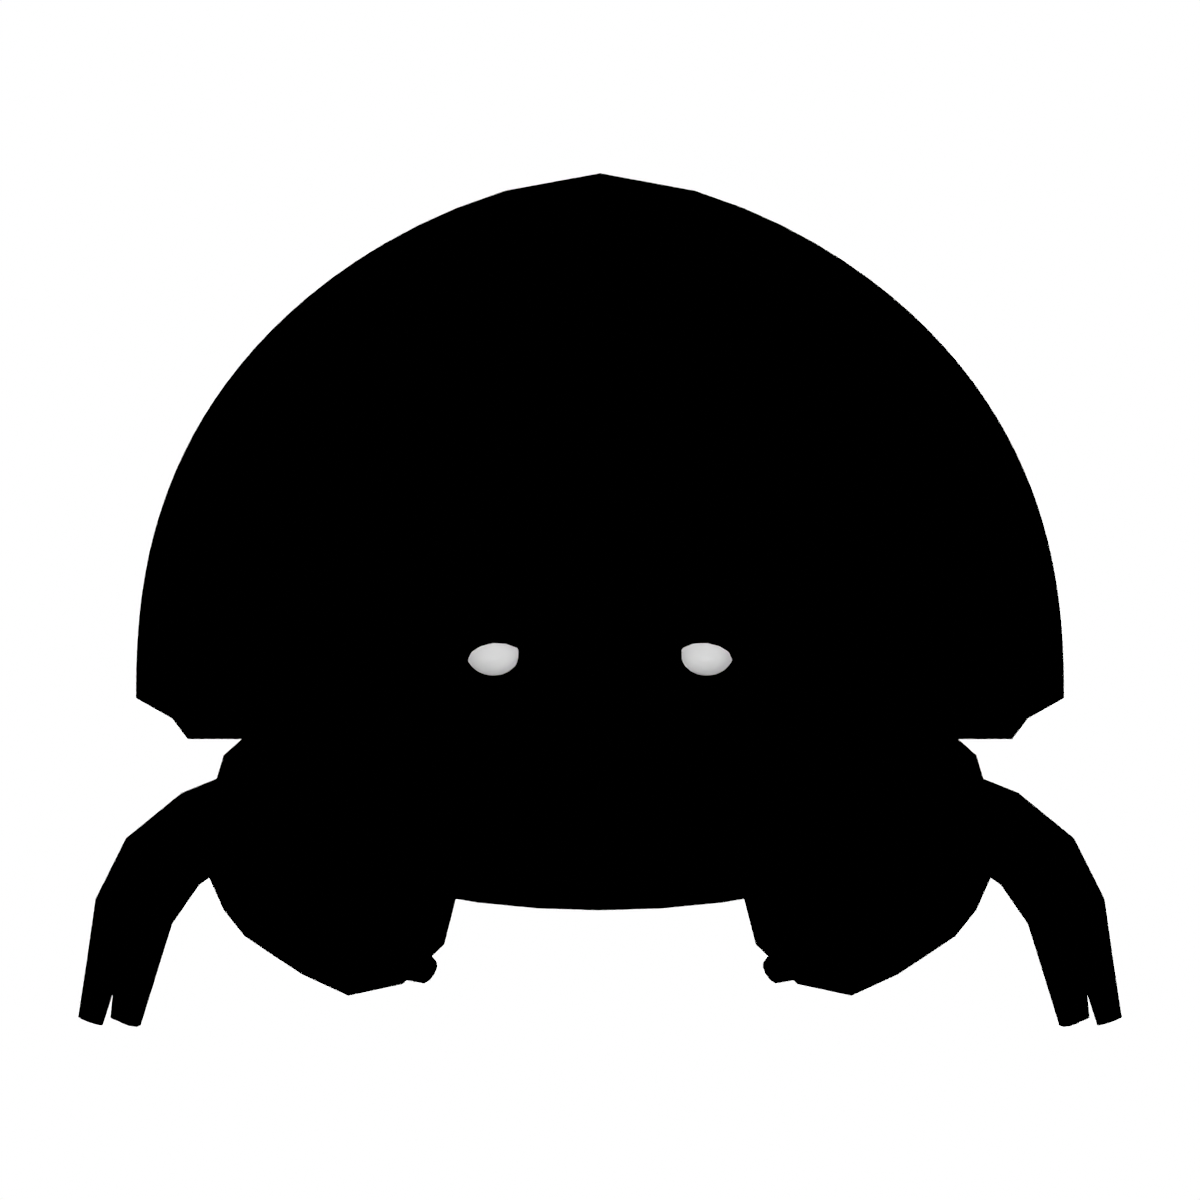
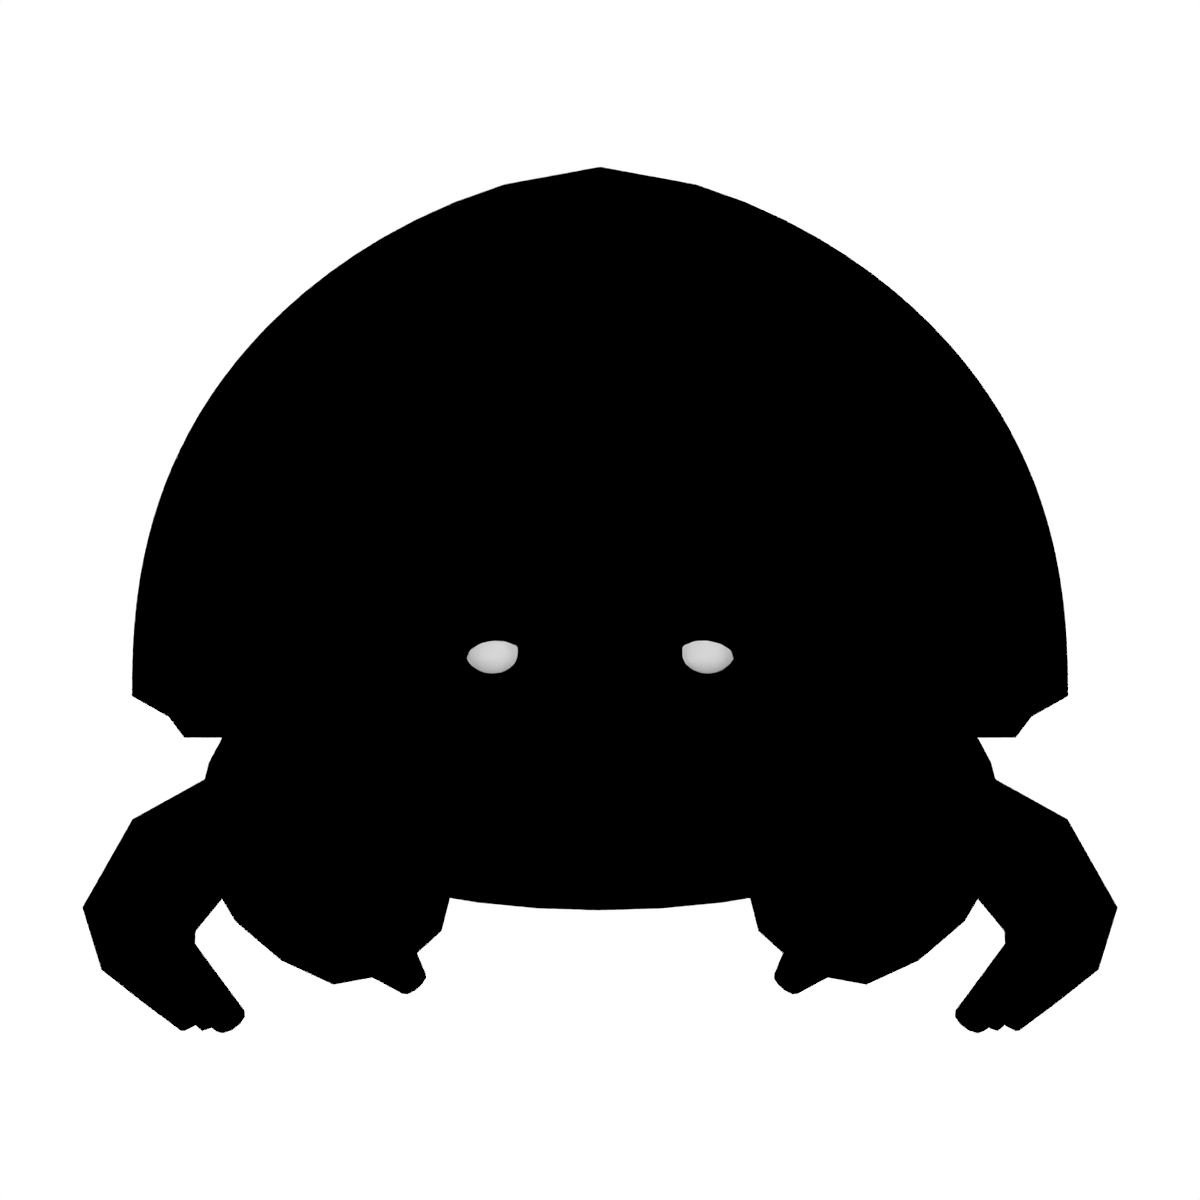
ワスレガニ: 鉤爪と脚を接地させ Anatomy Gate を 0.811 へ
鉤爪の指先が浮いていたのを設定画どおり z≈0.04 まで下ろし、
脚は膝(z≈0.11)が最大幅になるよう組み直して足先を内側へ寄せた。
あわせてゲート計測側の2つの誤差要因を除去した。

- モデル側マスクにも binary_fill_holes を適用(参照側と前処理を揃える)
- 位置合わせを bbox 中心から上位40%行の重心へ(脚の張り出しに引かれない)

front IoU 0.816 / side 0.805 / avg 0.811

Claude-Session: https://claude.ai/code/session_01PERsWFHQ12GzWFytKu9QWp

diff --git a/tools/models/wasuregani.py b/tools/models/wasuregani.py
@@ -251,11 +251,14 @@ def build_eyes() -> list:
 # 正面図: 左の鋏は sheet x607..666。**大きく硬い**(設定画の明記)。
 #
 # 腕(付け根)→ 前腕 → 二叉の指。指は下向きに閉じている。
-CLAW_ROOT = (0.230, -0.150, 0.245)
-CLAW_ELBOW = (0.268, -0.330, 0.180)
-CLAW_HAND = (0.212, -0.470, 0.115)
-CLAW_TIP = (0.158, -0.560, 0.058)
-CLAW_R = (0.090, 0.104, 0.086)      # 付け根 / 肘 / 手の太さ
+# 正面図の実測: 左の鋏は sheet x607..666(幅 301mm)、y249..303。
+# **指先は地面すれすれ**(z=0.041)まで降りる。設定画の鋏は体を支える
+# ように前へ突き出して接地している。
+CLAW_ROOT = (0.215, -0.140, 0.250)
+CLAW_ELBOW = (0.262, -0.318, 0.196)
+CLAW_HAND = (0.222, -0.452, 0.132)
+CLAW_TIP = (0.170, -0.545, 0.048)
+CLAW_R = (0.098, 0.112, 0.094)      # 付け根 / 肘 / 手の太さ
 
 
 def _tube(name, pts, radii, side):
@@ -276,12 +279,12 @@ def build_claws() -> list:
         out.append(_tube(f"{NAME}_fingerU{tag}",
                          ((h.x / side, h.y, h.z), (up.x / side, up.y, up.z),
                           (t.x / side, t.y + 0.012, t.z + 0.034)),
-                         [0.062, 0.046, 0.014], side))
+                         [0.070, 0.052, 0.016], side))
         lo = h + Vector((0.0, -0.058, -0.022))
         out.append(_tube(f"{NAME}_fingerL{tag}",
                          ((h.x / side, h.y, h.z), (lo.x / side, lo.y, lo.z),
                           (t.x / side, t.y, t.z)),
-                         [0.056, 0.040, 0.012], side))
+                         [0.064, 0.046, 0.014], side))
     return out
 
 
@@ -289,13 +292,15 @@ def build_claws() -> list:
 # 側面図で脚の付け根は sheet x884 / 922 / 942 あたり ―― 前後3対。
 # 正面図では甲羅の下から外へ張り出し、膝で折れて地面へ降りる。
 # **細い**(幅 8px = 41mm)。設定画「足はゆっくりと動く」。
+# 正面図の実測: いちばん広いのは接地の少し上(z≈0.08)で 948mm、接地では
+# 724mm に狭まる ―― **足先は膝より内側**。脚は膝で外へ張ってから内へ降りる。
 LEGS = [
     # (付け根の前後y, 付け根のx, 膝, 足先) ―― x は右側(side=+1)基準
-    (-0.100, 0.255, (0.395, -0.130, 0.170), (0.440, -0.150, 0.013)),
-    (+0.090, 0.265, (0.418, +0.110, 0.165), (0.470, +0.130, 0.013)),
-    (+0.265, 0.240, (0.390, +0.320, 0.155), (0.435, +0.375, 0.013)),
+    (-0.105, 0.250, (0.418, -0.145, 0.118), (0.352, -0.175, 0.014)),
+    (+0.085, 0.262, (0.438, +0.105, 0.112), (0.370, +0.130, 0.014)),
+    (+0.258, 0.238, (0.404, +0.315, 0.106), (0.338, +0.380, 0.014)),
 ]
-LEG_R = (0.036, 0.026, 0.012)
+LEG_R = (0.050, 0.036, 0.016)
 
 
 def build_legs() -> dict:
